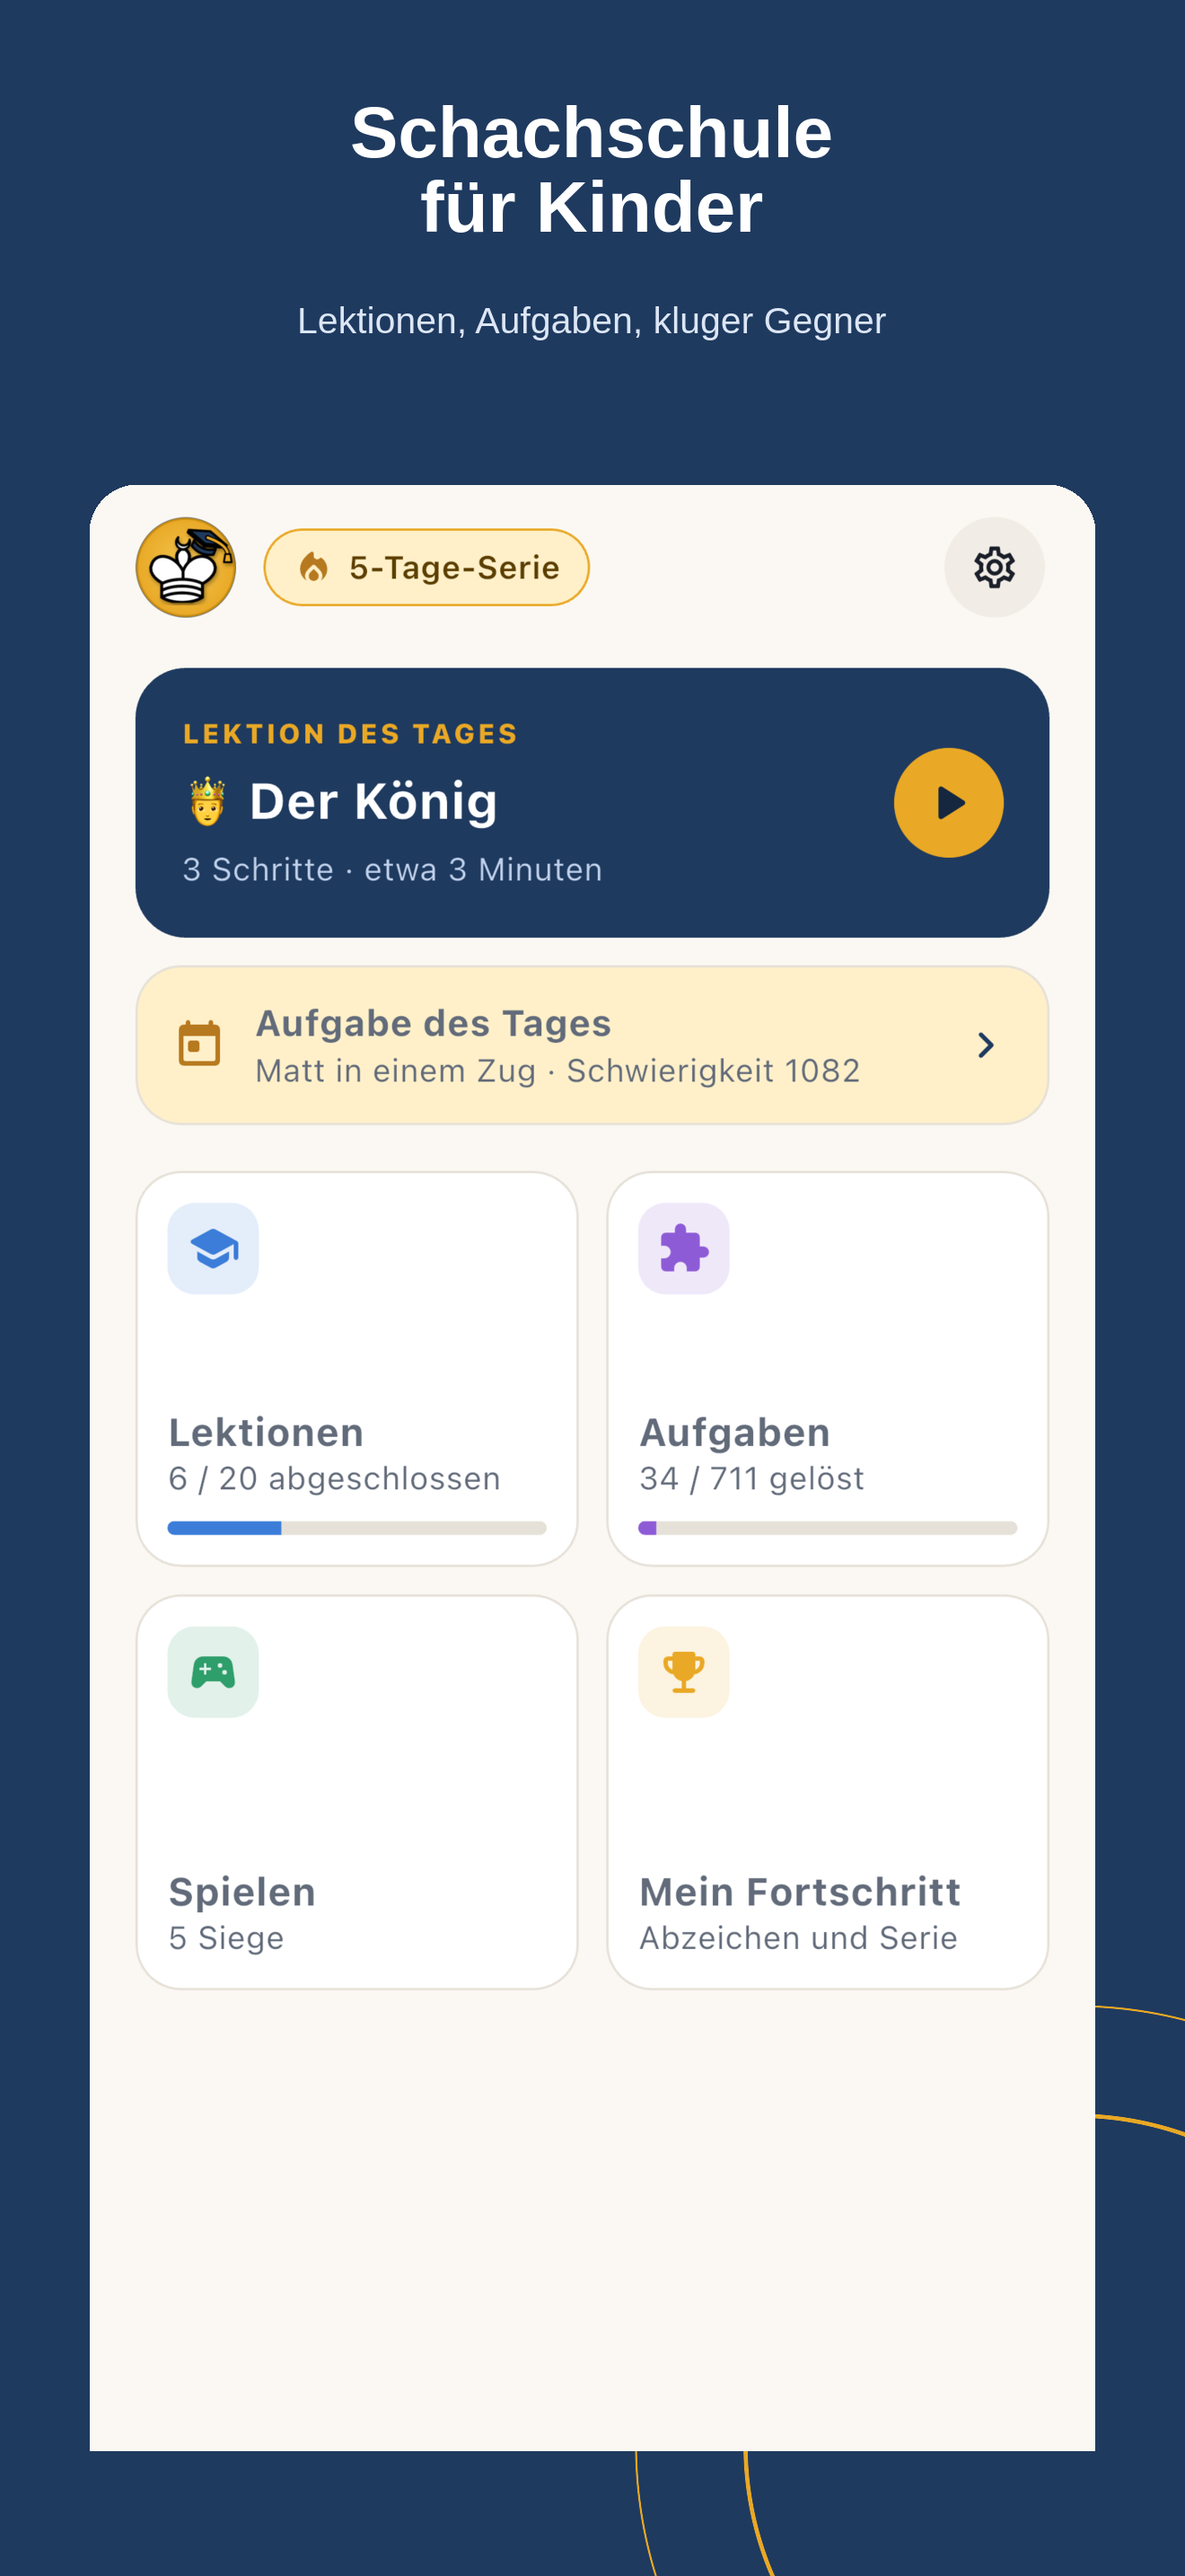
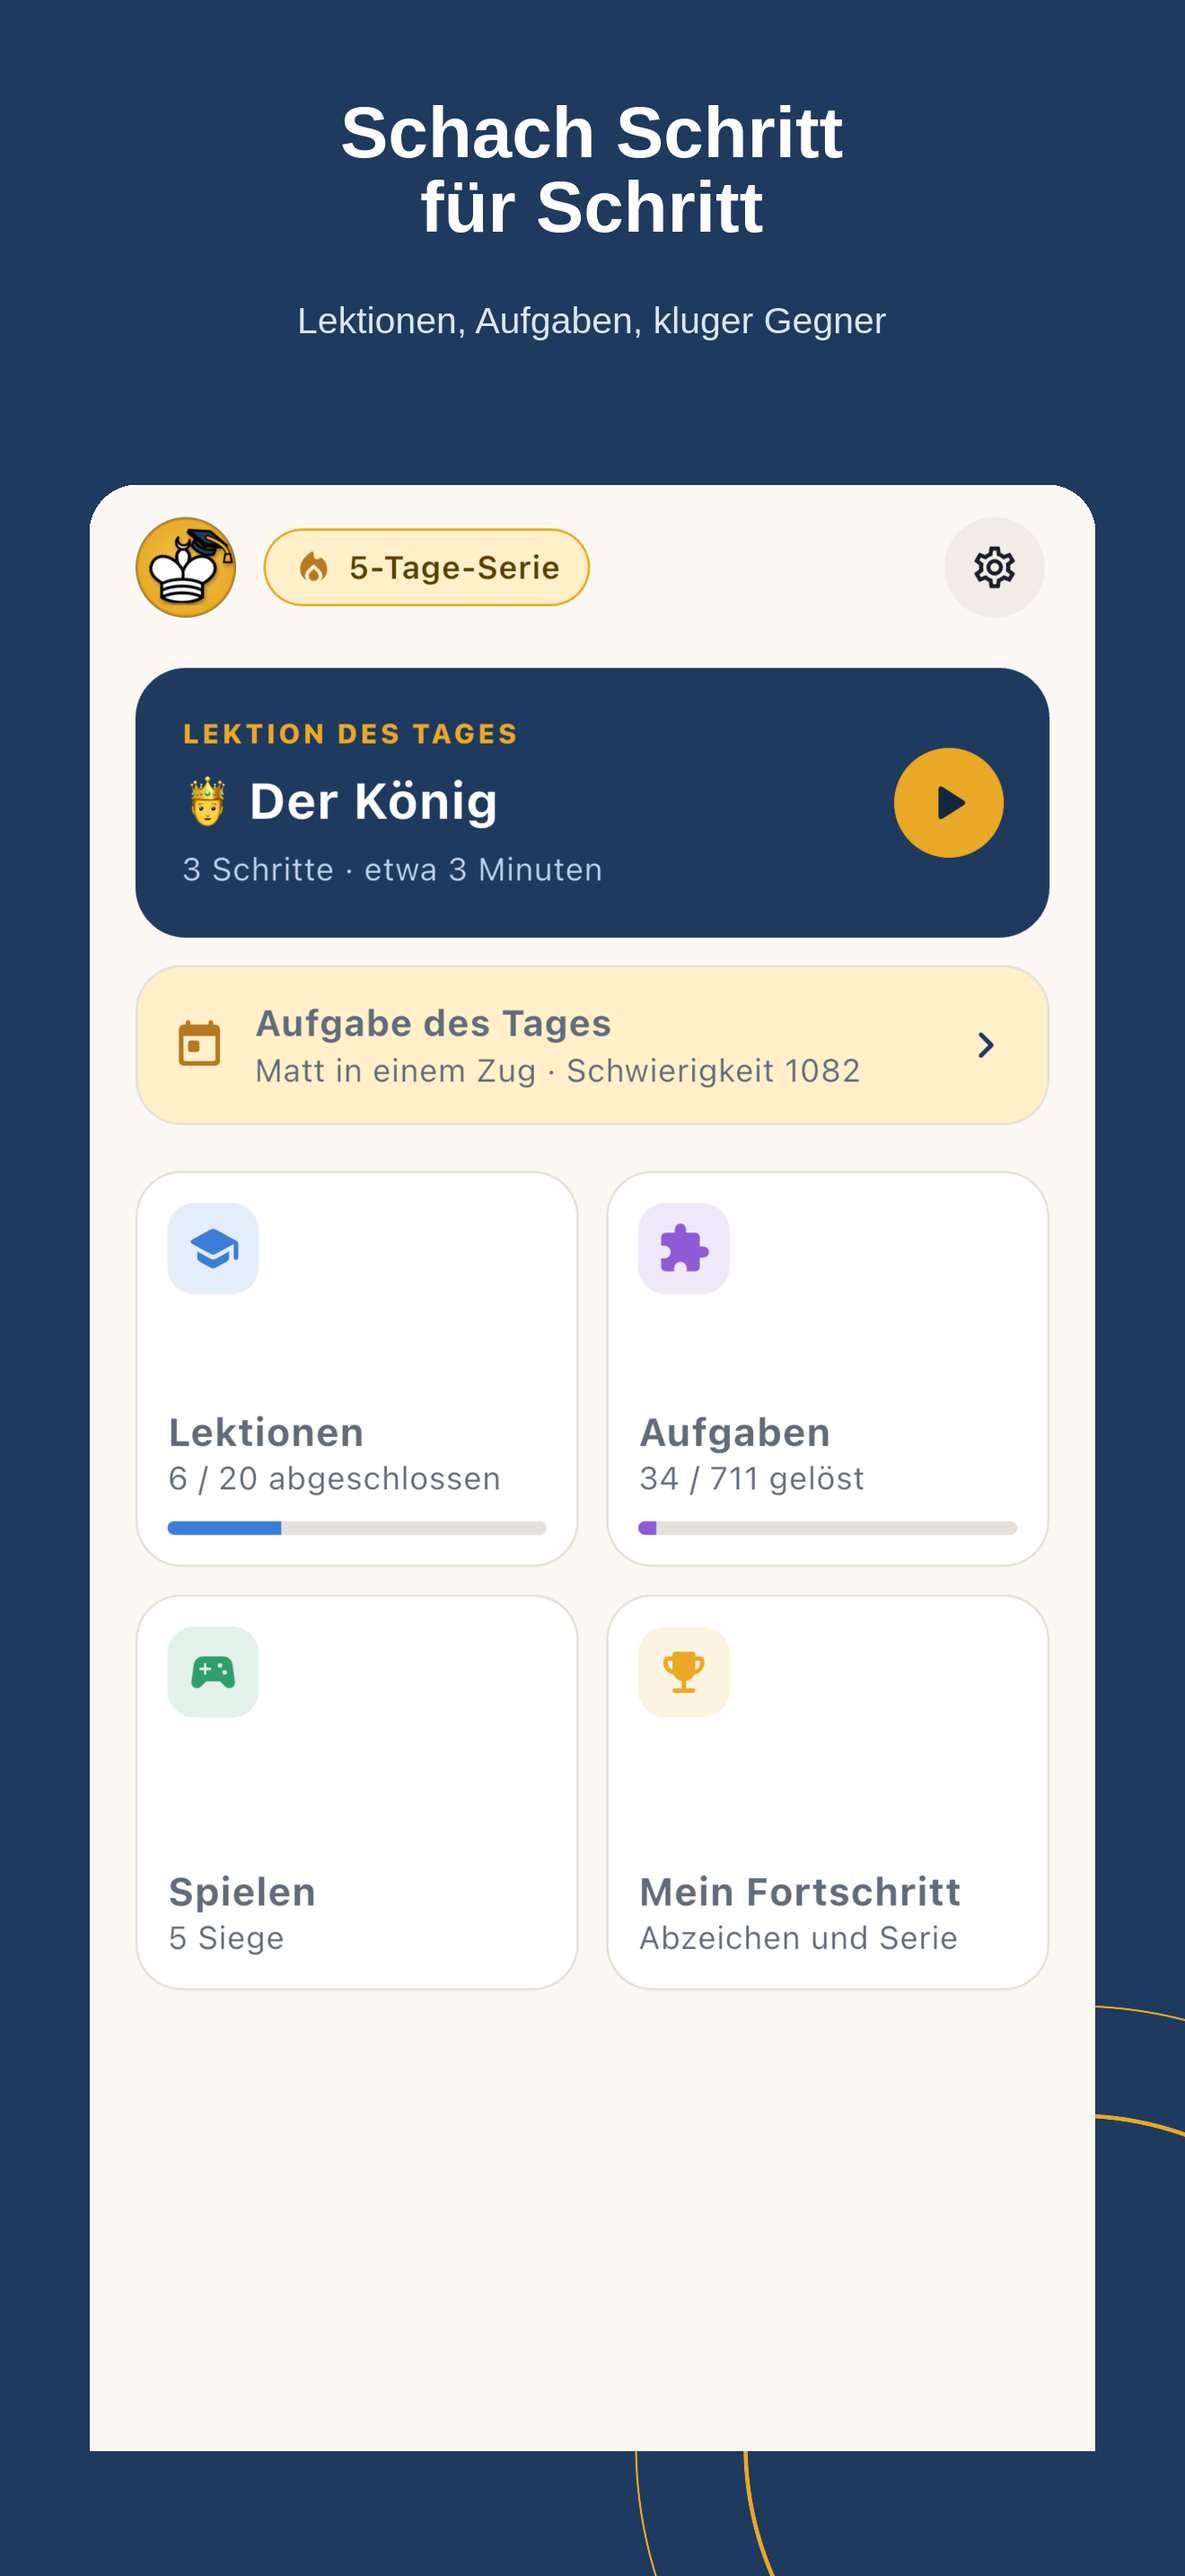
App Store: 'çocuklar için' ifadeleri kaldırıldı (Guideline 2.3.8), alt başlık ve ilk ekran görüntüsü yenilendi

Changed region(s): [[0.2795, 0.031, 0.7144, 0.0931]]

diff --git a/tool/branding/make_screenshots.py b/tool/branding/make_screenshots.py
@@ -59,7 +59,7 @@ TEXT = {
 
 TEXT_IOS = {
     'tr': {
-        '01_home': ('Çocuklar için\nsatranç okulu', 'Dersler, bulmacalar, akıllı rakip'),
+        '01_home': ('Satrancı adım\nadım öğren', 'Dersler, bulmacalar, akıllı rakip'),
         '02_lesson': ('20 etkileşimli ders', 'Tahtada görev yap, anında geri bildirim al'),
         '03_play': ('5 seviyeli rakip', 'Stockfish motoru, tamamen çevrimdışı'),
         '04_analysis': ('Hatalarını gör,\ndaha iyisini öğren', 'Oyun sonunda hamle hamle analiz'),
@@ -69,7 +69,7 @@ TEXT_IOS = {
         '08_setup': ('Seviyeni seç', 'Çaylaktan büyük ustaya'),
     },
     'en': {
-        '01_home': ('Chess school\nfor kids', 'Lessons, puzzles, smart opponent'),
+        '01_home': ('Learn chess\nstep by step', 'Lessons, puzzles, smart opponent'),
         '02_lesson': ('20 interactive lessons', 'Do tasks on the board, get instant feedback'),
         '03_play': ('Opponent with 5 levels', 'Stockfish engine, fully offline'),
         '04_analysis': ('See your mistakes,\nlearn the better move', 'Move-by-move analysis after every game'),
@@ -79,7 +79,7 @@ TEXT_IOS = {
         '08_setup': ('Pick your level', 'From rookie to grandmaster'),
     },
     'de': {
-        '01_home': ('Schachschule\nfür Kinder', 'Lektionen, Aufgaben, kluger Gegner'),
+        '01_home': ('Schach Schritt\nfür Schritt', 'Lektionen, Aufgaben, kluger Gegner'),
         '02_lesson': ('20 interaktive Lektionen', 'Aufgaben am Brett, sofortiges Feedback'),
         '03_play': ('Gegner mit 5 Stufen', 'Stockfish-Engine, komplett offline'),
         '04_analysis': ('Fehler erkennen,\nbesser spielen', 'Zug-für-Zug-Analyse nach jeder Partie'),
@@ -89,7 +89,7 @@ TEXT_IOS = {
         '08_setup': ('Wähle deine Stufe', 'Vom Anfänger zum Großmeister'),
     },
     'es': {
-        '01_home': ('Escuela de ajedrez\npara niños', 'Lecciones, problemas, rival inteligente'),
+        '01_home': ('Aprende ajedrez\npaso a paso', 'Lecciones, problemas, rival inteligente'),
         '02_lesson': ('20 lecciones interactivas', 'Tareas en el tablero, respuesta al instante'),
         '03_play': ('Rival con 5 niveles', 'Motor Stockfish, sin conexión'),
         '04_analysis': ('Ve tus errores,\naprende la mejor jugada', 'Análisis jugada a jugada tras cada partida'),

diff --git a/store/appstore_tr.md b/store/appstore_tr.md
@@ -7,16 +7,16 @@ App Store Connect → uygulama → sürüm sayfası. Sınırlar: ad 30, alt baş
 Satranç Akademi
 
 ## Subtitle (30)
-Çocuklar için satranç okulu
+Satrancı adım adım öğren
 
 ## Promotional Text (170)
 Yeni: Aynı Wi-Fi ağındaki bir arkadaşınla oyna. Hesap yok, sunucu yok.
 
 ## Keywords (100)
-satranç,çocuk,ders,bulmaca,mat,öğren,taktik,oyun,tahta,eğitim,akıl,strateji,çocuklar,başlangıç
+satranç,ders,bulmaca,mat,öğren,taktik,oyun,tahta,eğitim,akıl,strateji,başlangıç,okul,antrenör
 
 ## Description (4000)
-Satranç Akademi, çocukların ve yeni başlayanların satrancı sıfırdan, adım adım öğrenmesi için hazırlandı.
+Satranç Akademi, her yaştan yeni başlayanın satrancı sıfırdan, adım adım öğrenmesi için hazırlandı.
 
 20 ETKİLEŞİMLİ DERS
 Taşların hareketinden şah matına, çatal ve çivileme gibi taktiklerden açılış ilkelerine kadar her konu kısa açıklamalar ve tahtada yapılan küçük görevlerle öğretilir. Doğru hamleyi bulunca anında geri bildirim alırsın.
@@ -39,7 +39,7 @@ SANA ÖZEL GÖRÜNÜM
 İLERLEME VE ROZETLER
 Biten dersler, çözülen bulmacalar, günlük seri ve kazanılan oyunlar rozetlerle ödüllendirilir.
 
-ÇOCUKLAR İÇİN GÜVENLİ
+GİZLİ VE ÇEVRİMDIŞI
 Hesap yok, reklam yok, veri toplama yok. Her şey cihazda kalır ve internet gerektirmez.
 
 İlk 8 ders ücretsizdir. Taktik ve mat teknikleri derslerinin tamamı tek seferlik "Tüm Dersler" satın alımıyla açılır; abonelik yoktur.

diff --git a/store/appstore_es.md b/store/appstore_es.md
@@ -7,16 +7,16 @@ App Store Connect → uygulama → sürüm sayfası. Sınırlar: ad 30, alt baş
 Academia de Ajedrez
 
 ## Subtitle (30)
-Escuela de ajedrez para niños
+Aprende ajedrez paso a paso
 
 ## Promotional Text (170)
 Nuevo: juega con un amigo en la misma red Wi-Fi. Sin cuenta, sin servidor.
 
 ## Keywords (100)
-ajedrez,niños,lecciones,problemas,mate,aprender,táctica,tablero,juego,principiante,estrategia
+ajedrez,escuela,lecciones,problemas,mate,aprender,táctica,tablero,juego,principiante,estrategia
 
 ## Description (4000)
-Academia de Ajedrez enseña ajedrez desde cero a niños y principiantes, paso a paso.
+Academia de Ajedrez enseña ajedrez desde cero a principiantes de todas las edades, paso a paso.
 
 20 LECCIONES INTERACTIVAS
 Desde el movimiento de las piezas hasta el jaque mate, desde la horquilla y la clavada hasta los principios de la apertura: cada tema se enseña con explicaciones cortas y pequeñas tareas en el tablero. Recibes respuesta al instante cuando encuentras la jugada correcta.
@@ -39,7 +39,7 @@ A TU GUSTO
 PROGRESO E INSIGNIAS
 Las lecciones terminadas, los problemas resueltos, las rachas diarias y las partidas ganadas dan insignias.
 
-SEGURA PARA NIÑOS
+PRIVADA Y SIN CONEXIÓN
 Sin cuentas, sin anuncios, sin recopilación de datos. Todo se queda en el dispositivo y funciona sin internet.
 
 Las primeras 8 lecciones son gratis. Todas las lecciones de táctica y mate se desbloquean con la compra única "Todas las lecciones"; no hay suscripción.

diff --git a/store/appstore_de.md b/store/appstore_de.md
@@ -7,16 +7,16 @@ App Store Connect → uygulama → sürüm sayfası. Sınırlar: ad 30, alt baş
 Schach-Akademie
 
 ## Subtitle (30)
-Schachschule für Kinder
+Schach Schritt für Schritt
 
 ## Promotional Text (170)
 Neu: Spiele gegen Freunde im selben WLAN. Kein Konto, kein Server.
 
 ## Keywords (100)
-schach,kinder,lektionen,aufgaben,matt,lernen,taktik,brett,spiel,anfänger,strategie,trainer,üben
+schach,schule,lektionen,aufgaben,matt,lernen,taktik,brett,spiel,anfänger,strategie,trainer,üben
 
 ## Description (4000)
-Die Schach-Akademie bringt Kindern und Anfängern Schach von Grund auf bei, Schritt für Schritt.
+Die Schach-Akademie bringt Anfängern jeden Alters Schach von Grund auf bei, Schritt für Schritt.
 
 20 INTERAKTIVE LEKTIONEN
 Von den Zügen der Figuren bis zum Schachmatt, von Gabel und Fesselung bis zu den Eröffnungsprinzipien: Jedes Thema wird mit kurzen Erklärungen und kleinen Aufgaben auf dem Brett vermittelt. Beim richtigen Zug gibt es sofort Rückmeldung.
@@ -39,7 +39,7 @@ GANZ NACH DEINEM GESCHMACK
 FORTSCHRITT UND ABZEICHEN
 Abgeschlossene Lektionen, gelöste Aufgaben, tägliche Serien und gewonnene Partien bringen Abzeichen.
 
-SICHER FÜR KINDER
+PRIVAT UND OFFLINE
 Keine Konten, keine Werbung, keine Datensammlung. Alles bleibt auf dem Gerät und funktioniert ohne Internet.
 
 Die ersten 8 Lektionen sind kostenlos. Alle Taktik- und Mattlektionen werden mit dem einmaligen Kauf „Alle Lektionen“ freigeschaltet; es gibt kein Abo.

diff --git a/store/appstore_en.md b/store/appstore_en.md
@@ -7,16 +7,16 @@ App Store Connect → uygulama → sürüm sayfası. Sınırlar: ad 30, alt baş
 Chess Academy
 
 ## Subtitle (30)
-Chess school for kids
+Learn chess step by step
 
 ## Promotional Text (170)
 New: play a friend on the same Wi-Fi network. No account, no server.
 
 ## Keywords (100)
-chess,kids,lessons,puzzles,checkmate,learn,tactics,board,game,beginner,children,strategy,trainer
+chess,lessons,puzzles,checkmate,learn,tactics,board,game,beginner,strategy,trainer,school,mate,coach
 
 ## Description (4000)
-Chess Academy teaches children and beginners chess from scratch, step by step.
+Chess Academy teaches chess to beginners of all ages from scratch, step by step.
 
 20 INTERACTIVE LESSONS
 From how the pieces move to checkmate, from forks and pins to opening principles: every topic is taught with short explanations and small tasks on the board. You get instant feedback when you find the right move.
@@ -39,7 +39,7 @@ MAKE IT YOURS
 PROGRESS AND BADGES
 Finished lessons, solved puzzles, daily streaks and won games earn badges.
 
-SAFE FOR KIDS
+PRIVATE AND OFFLINE
 No accounts, no ads, no data collection. Everything stays on the device and works without internet.
 
 The first 8 lessons are free. The full set of tactics and checkmate lessons unlocks with a one-time "All Lessons" purchase; there is no subscription.
